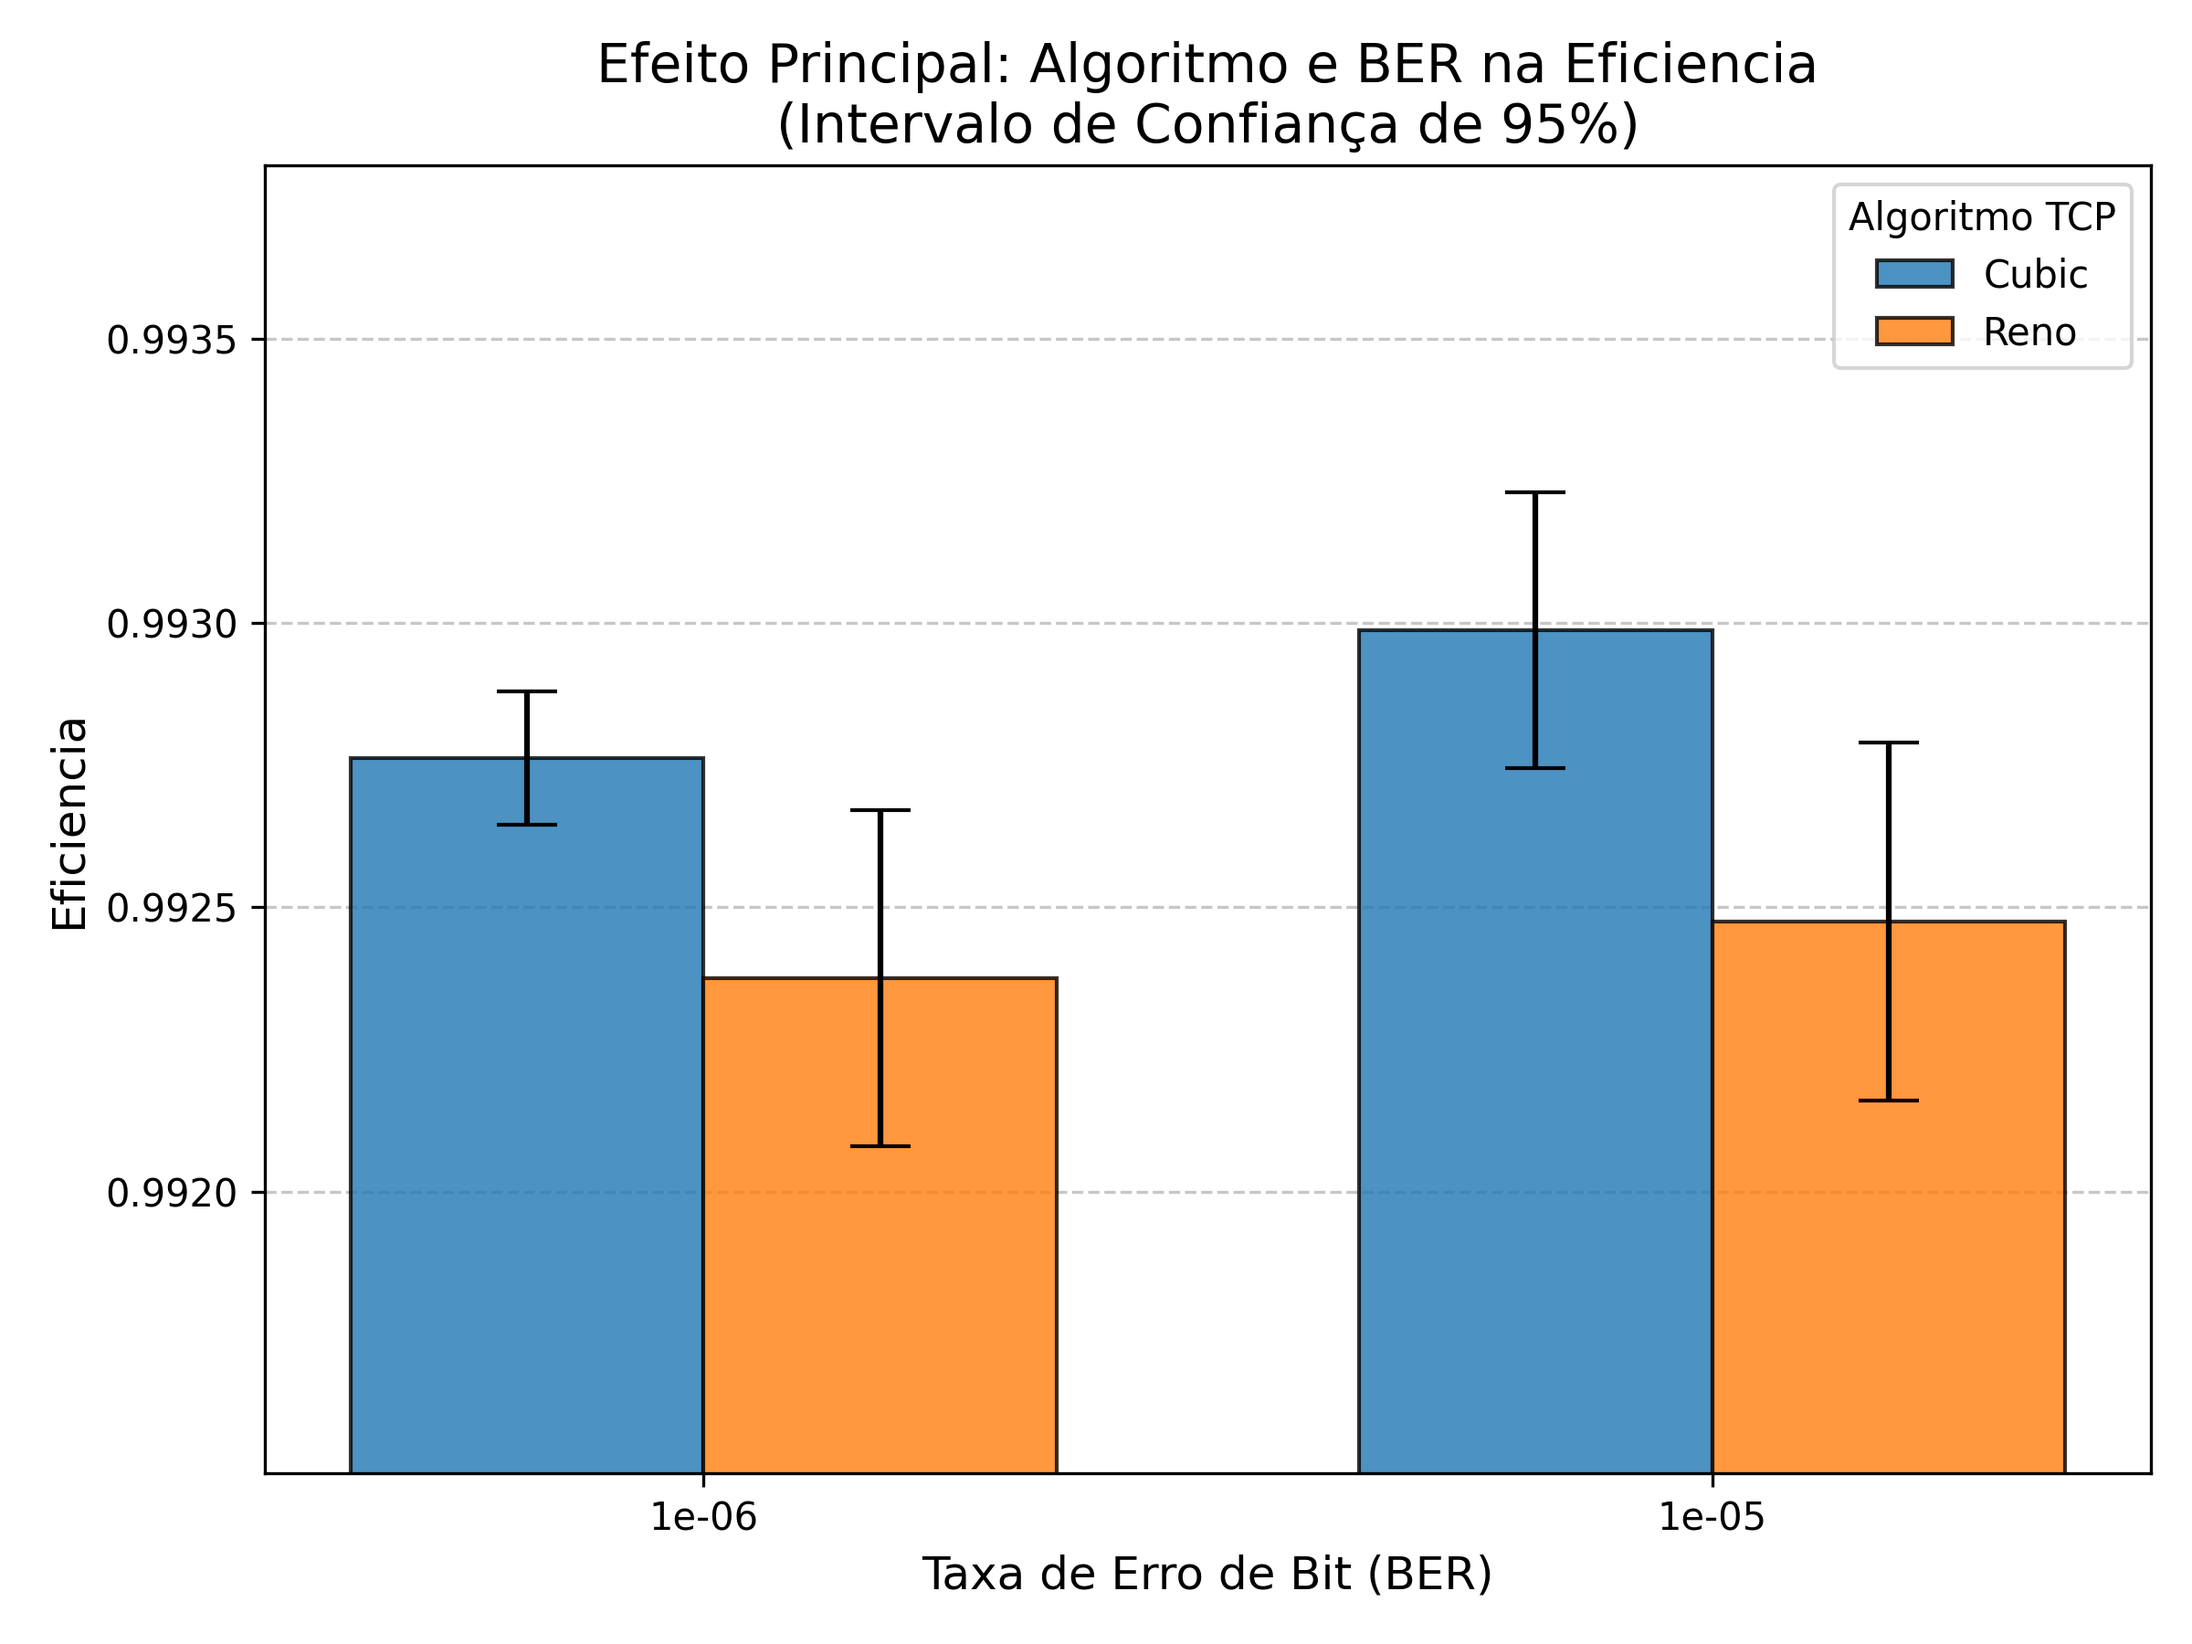
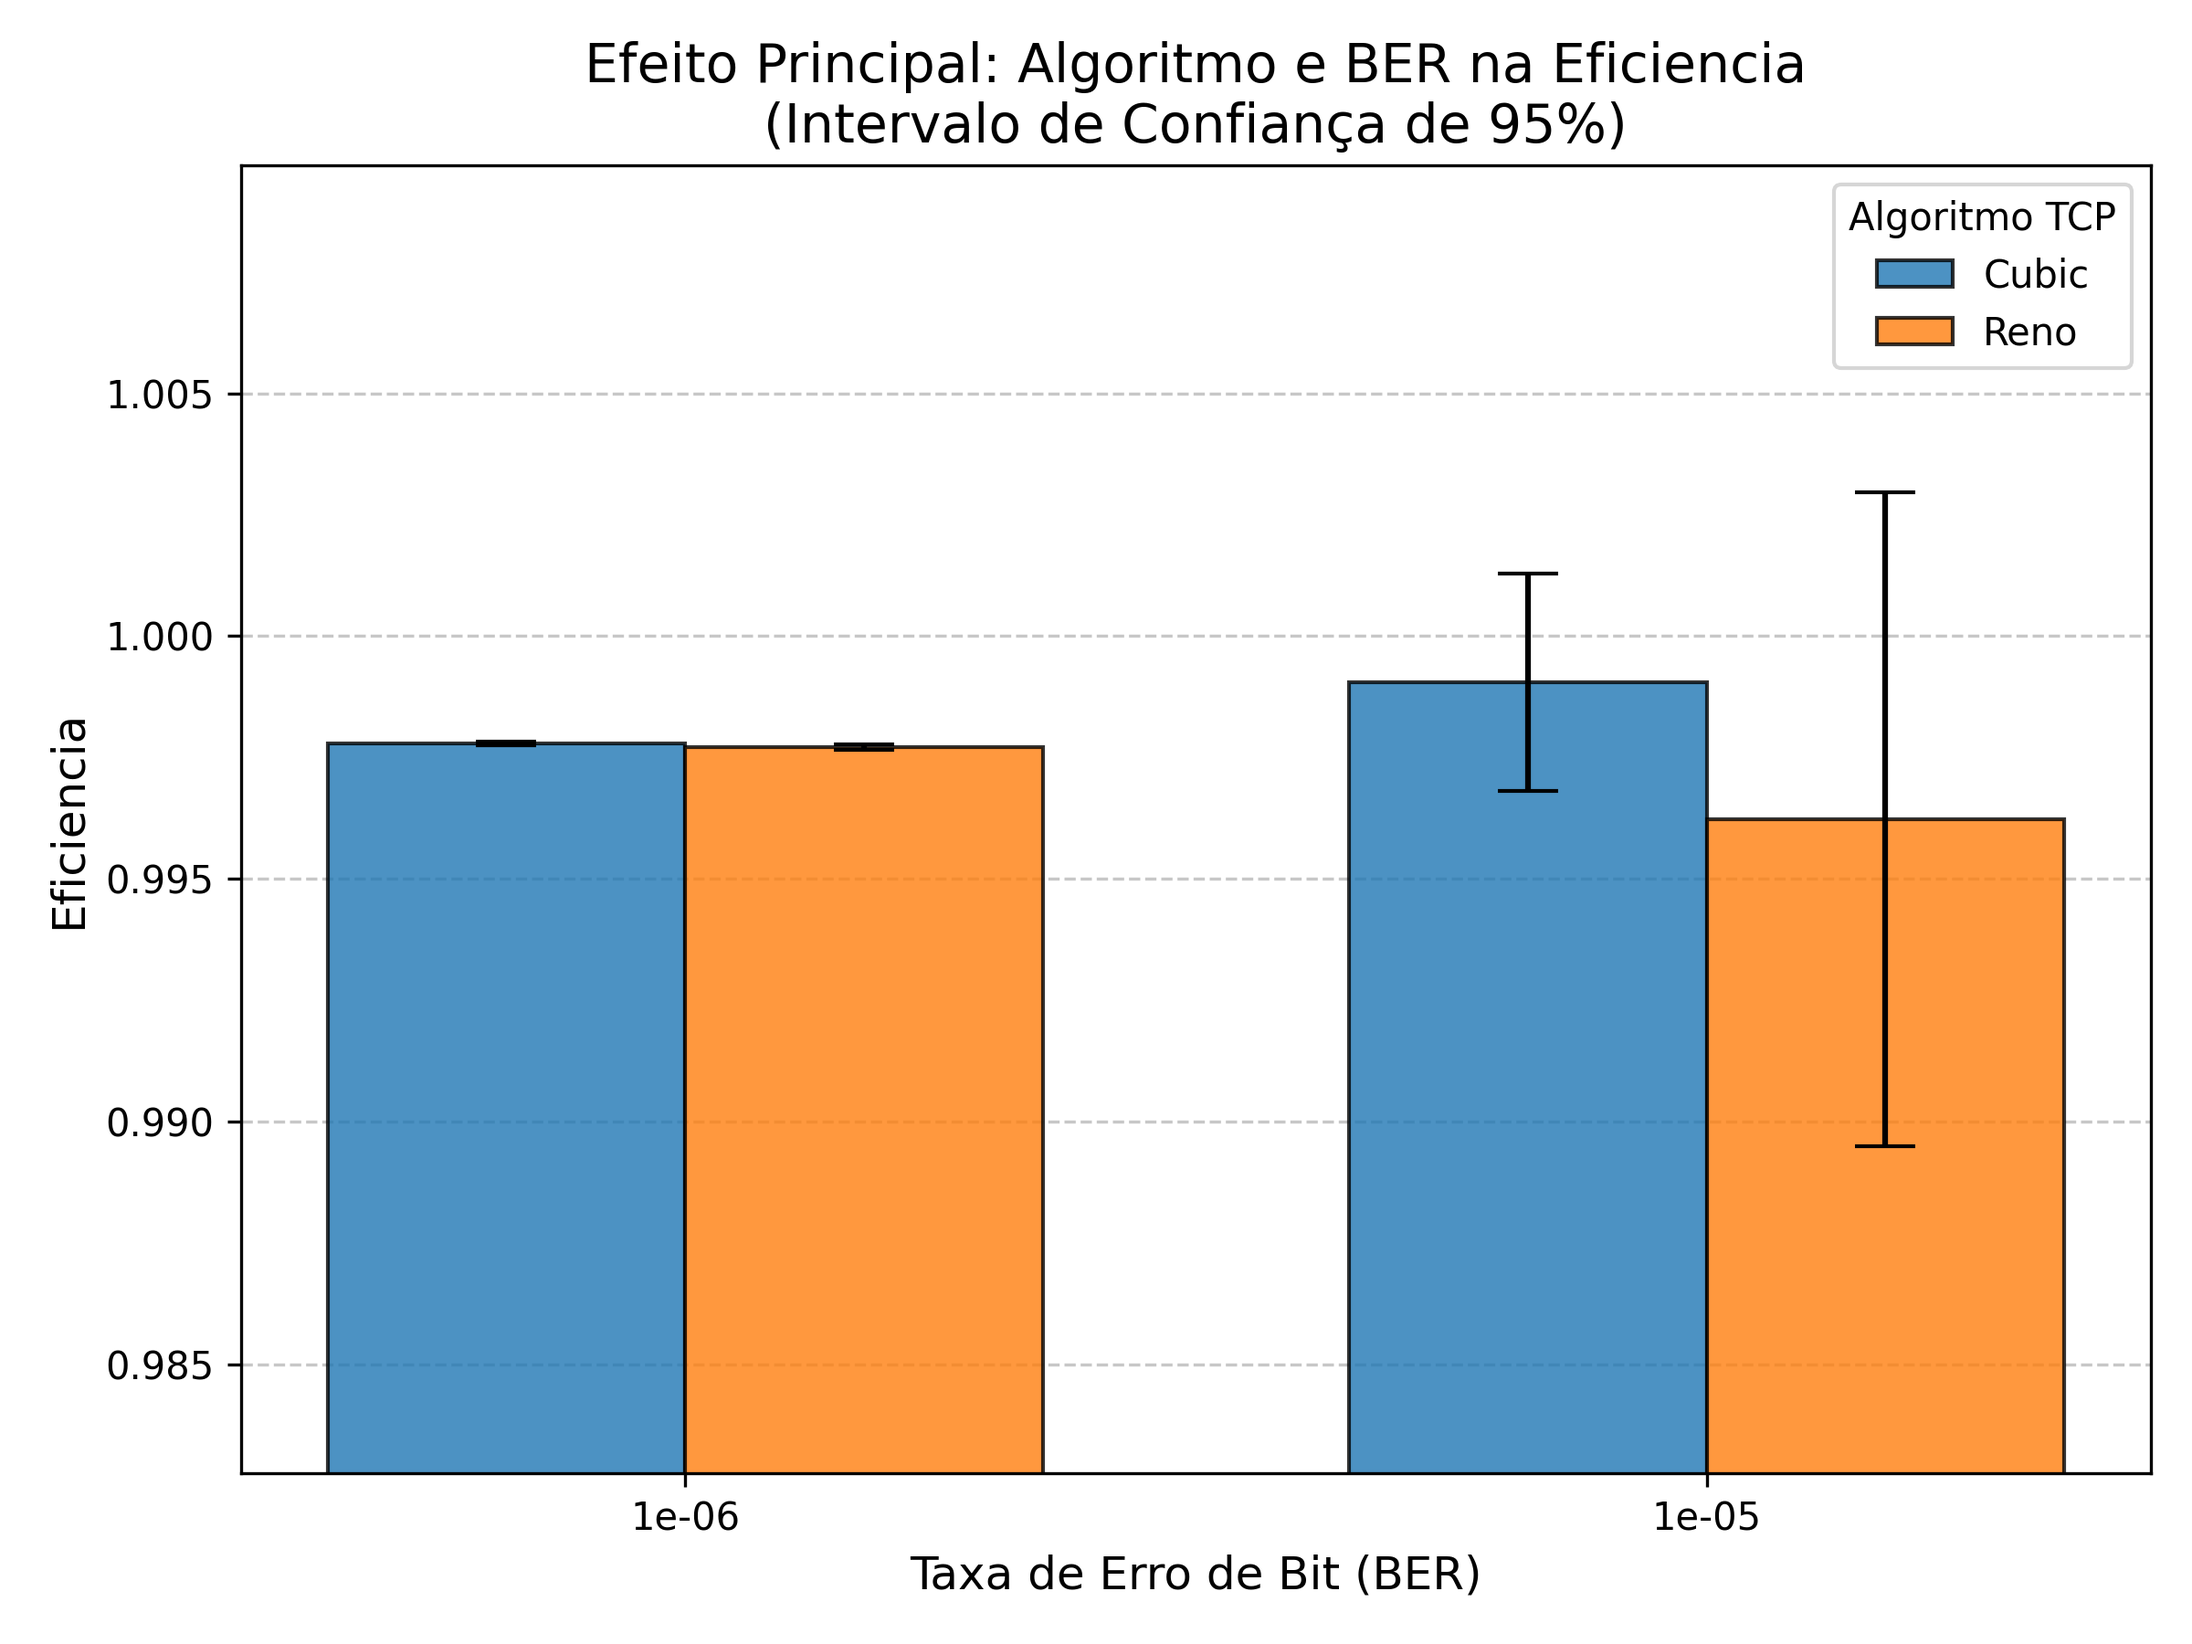
correções do ber manual

diff --git a/analise.py b/analise.py
@@ -2,11 +2,29 @@ import pandas as pd
 import numpy as np
 import matplotlib.pyplot as plt
 import scipy.stats as stats
+import glob
+import os
 
 # ==========================================================
-# 1. Carregamento dos Dados
+# 1. Carregamento e União dos Dados (ATUALIZADO)
 # ==========================================================
-df = pd.read_csv('resultados.csv')
+# Busca automaticamente todos os arquivos que começam com "resultados_BER_"
+arquivos_csv = glob.glob('resultados_BER_*.csv')
+
+if not arquivos_csv:
+    print("❌ Erro: Nenhum arquivo CSV encontrado! Verifique se eles estão na mesma pasta do script.")
+    exit()
+
+print(f"📥 Encontrados {len(arquivos_csv)} arquivos de resultados. Unindo dados...")
+
+# Lê todos os arquivos encontrados e empilha em um único DataFrame
+lista_dfs = [pd.read_csv(arquivo) for arquivo in arquivos_csv]
+df = pd.concat(lista_dfs, ignore_index=True)
+
+# Ordena os dados pela coluna BER para o eixo X do gráfico ficar na ordem crescente
+df = df.sort_values(by='BER')
+
+print(f"✅ Total de linhas carregadas: {len(df)}")
 
 # ==========================================================
 # 2. Função para calcular o Intervalo de Confiança (95%)
@@ -28,6 +46,7 @@ for var in variaveis_de_saida:
     print(f"ANÁLISE ESTATÍSTICA: {var}")
     print(f"{'='*50}")
     
+    # Agrupa por Algoritmo e BER e calcula as métricas
     resumo = df.groupby(['Algoritmo', 'BER'])[var].agg(
         Média=np.mean,
         Desvio_Padrão=np.std,
@@ -55,13 +74,12 @@ for var in variaveis_de_saida:
                capsize=8, alpha=0.8, edgecolor='black')
 
     # ==========================================================
-    # NOVIDADE: Ajuste Dinâmico do Eixo Y (O "Zoom")
+    # Ajuste Dinâmico do Eixo Y (Zoom)
     # ==========================================================
     min_val = (resumo['Média'] - resumo['IC_95']).min()
     max_val = (resumo['Média'] + resumo['IC_95']).max()
-    margem = (max_val - min_val) * 0.5 # Dá um respiro de 50% para cima e para baixo
+    margem = (max_val - min_val) * 0.5 
     
-    # Aplica o limite inferior e superior cortando o zero se for muito alto
     ax.set_ylim(max(0, min_val - margem), max_val + margem)
 
     # Configuração de Títulos e Eixos
@@ -79,6 +97,6 @@ for var in variaveis_de_saida:
     plt.tight_layout()
     nome_arquivo = f'grafico_{var.lower()}.png'
     plt.savefig(nome_arquivo, dpi=300)
-    print(f"\n[OK] Gráfico gerado e salvo como: {nome_arquivo}")
+    print(f"[OK] Gráfico gerado e salvo como: {nome_arquivo}")
 
-print("\n🎉 Gráficos atualizados com sucesso!")
+print("\n🎉 Todos os gráficos e análises foram atualizados com sucesso!")
